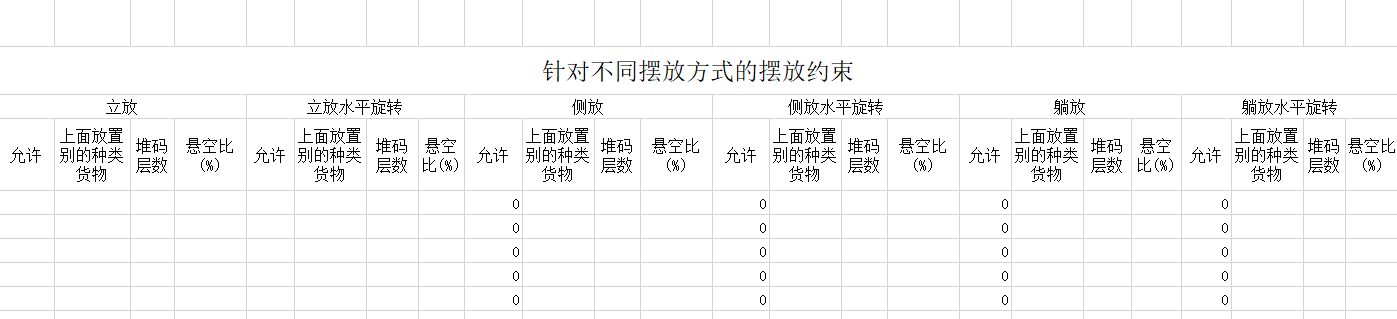
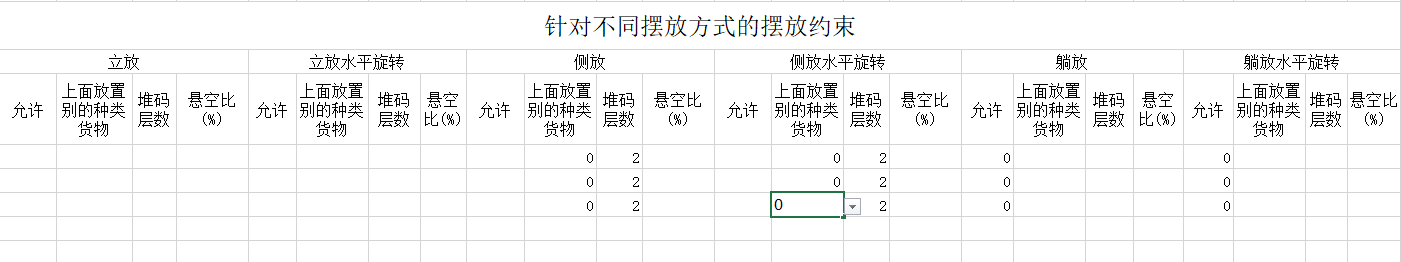
GitBook: [master] 104 pages and 34 assets modified

diff --git a/work/1-ji-zhuang-xiang-you-hua-pei-zai/o-ru-he-shi-xian-huo-wu-you-xian-sheng-cheng-dan-pin-gui-de-zhuang-zai-yao-qiu.md b/work/1-ji-zhuang-xiang-you-hua-pei-zai/o-ru-he-shi-xian-huo-wu-you-xian-sheng-cheng-dan-pin-gui-de-zhuang-zai-yao-qiu.md
@@ -1,0 +1,81 @@
+# o、如何实现货物优先生成单品柜的装载要求
+
+多种规格的货物装集装箱（或车辆或包装箱）时，只要能达到既定的装载率，希望尽量让同一货物装在一个容器中，那么如何在软件中定义？
+
+下面通过一个示例来讲解：
+
+**装箱数据：**
+
+| 名称 | 数量 | 长（cm） | 宽（cm） | 高（cm） |
+| :--- | :--- | :--- | :--- | :--- |
+| A | 110 | 90 | 110 | 70 |
+| B | 120 | 110 | 70 | 75 |
+| C | 52 | 100 | 100 | 100 |
+| D | 270 | 70 | 80 | 40 |
+
+**装载要求：**
+
+1）货物A可以随意摆放，货物BCD只能高垂直于地。
+
+2）货物装集装箱时，优先生成单品柜，剩余的货物再混合装载
+
+3）计算这批货物用几个40普柜装完。
+
+根据当前装载要求，应选择“集装箱装载/多品”任务类型，点击进入。
+
+![&#x56FE;&#x7247;&#x5305;&#x542B; &#x622A;&#x56FE;, &#x6E38;&#x620F;&#x673A;, &#x623F;&#x95F4;
+
+&#x63CF;&#x8FF0;&#x5DF2;&#x81EA;&#x52A8;&#x751F;&#x6210;](../../.gitbook/assets/0%20%2814%29.png)
+
+进入基础信息填写界面，基础信息是选填项，用户可根据实际工作要求，填写PO单号、运单号或目的港等信息，方便以后查阅。接下来，开始方案的设计：
+
+**第一步：**点击左侧的【货物】，进入货物界面，因货物种类较多，所以使用excel批量导入。
+
+1）首先要获取导入模板，点击【添加货物】下的“获取excel导入模板”，另存到桌面。
+
+![&#x56FE;&#x7247;&#x5305;&#x542B; &#x622A;&#x56FE;, &#x6E38;&#x620F;&#x673A;
+
+&#x63CF;&#x8FF0;&#x5DF2;&#x81EA;&#x52A8;&#x751F;&#x6210;](../../.gitbook/assets/1%20%2815%29.png)
+
+2）填写导入模板（下载好的模板会自动打开）：
+
+①将货物的名称、数量、长宽高复制进来，这是必填项。重量是单件货物的毛重，若货物重量较轻可以忽略，重量可以不填写，若货物较重，为了不超重安全运输，重量必须填写，注意单位的匹配。
+
+②定义货物的摆放方式，因本案例要求BCD只能高垂直于地面摆放，即只能立放、立放水平旋转，所以要将BCD其他摆放方式下的“允许”一栏填写为“0”，0表示不允许，1或者不填表示允许。
+
+![&#x56FE;&#x7247;&#x5305;&#x542B; &#x5C4F;&#x5E55;&#x622A;&#x56FE;
+
+&#x63CF;&#x8FF0;&#x5DF2;&#x81EA;&#x52A8;&#x751F;&#x6210;](../../.gitbook/assets/2%20%2816%29.png)
+
+本案例中其他装载要求不涉及，因此模板中其他参数不用设置，按默认值即可。实际工作中若有其他要求，涉及到相关参数的设置，可参考上文中的相关介绍。模板填写完成，保存后关闭。
+
+3）回到软件的货物界面，点击【添加货物】下的“从excel表格中导入”，在弹框中找到填写好的模板，点击打开，货物数据就全部导入到软件中了。
+
+![&#x56FE;&#x7247;&#x5305;&#x542B; &#x622A;&#x56FE;, &#x6E38;&#x620F;&#x673A;
+
+&#x63CF;&#x8FF0;&#x5DF2;&#x81EA;&#x52A8;&#x751F;&#x6210;](../../.gitbook/assets/3%20%2814%29.png)
+
+**第二步:** 点击左侧的【容器】，进入容器界面，因要计算这批货物用几个40GP，所以只需将40GP添加进来即可（若不知道用什么柜型，可以将常用的柜型都添加进来，让软件自动选择）。点击“从数据库中添加”，在弹框中勾选40GP，点击“添加”，关闭弹框，然后设置集装箱的角件和保留尺寸，角件的尺寸为10\*10\*10cm。关于定义保留尺寸的注意事项，请参考[《如何模拟纸箱胀箱和人工摆放间隙》。]()
+
+![&#x56FE;&#x7247;&#x5305;&#x542B; &#x622A;&#x56FE;, &#x7535;&#x8111;, &#x7B14;&#x8BB0;&#x672C;, &#x684C;&#x5B50;
+
+&#x63CF;&#x8FF0;&#x5DF2;&#x81EA;&#x52A8;&#x751F;&#x6210;](../../.gitbook/assets/4%20%2814%29.png)
+
+**第三步：**点击左侧的【装载规则】，进入装载规则界面。
+
+因要求优先生成单品柜，所以将“优先生成单品装载”勾选上，并注意设置“单品装载可以接受的最低装载率”，此案例我们先按照系统默认的85%计算看看方案效果。
+
+![&#x56FE;&#x7247;&#x5305;&#x542B; &#x622A;&#x56FE;, &#x6E38;&#x620F;&#x673A;
+
+&#x63CF;&#x8FF0;&#x5DF2;&#x81EA;&#x52A8;&#x751F;&#x6210;](../../.gitbook/assets/5%20%2811%29.png)
+
+点击自动计算，得出装载方案。在左侧容器列表可以看出这批货物使用5个40GP装完。分别点击容器名称，可以看到每个容器的3D装载效果图，根据立体图可以看到货柜1、2都是单品装载，但是后面三个货柜却是混合装载。这是因为后面的货柜单品装载装载率达不到85%，所有没有生成单品装载。
+
+![](../../.gitbook/assets/6%20%2813%29.png)![](../../.gitbook/assets/7%20%288%29.png) ![](../../.gitbook/assets/8%20%288%29.png)![](../../.gitbook/assets/9%20%287%29.png)![](../../.gitbook/assets/10%20%283%29.png)
+
+接下来将“单品装载可以接受的最低装载率”设置为60%，看看方案有什么变化，点击自动计算，重新生成方案。分别点击容器名称，可以看到前四个货柜都是单品装载，剩余的货物在最后一个货柜混合装载，完全满足了用户的要求。所以在勾选了“优先生成单品装载”，要注意“单品装载可以接受的最低装载率”的设置。
+
+![](../../.gitbook/assets/11%20%282%29.png) ![](../../.gitbook/assets/12%20%283%29.png) ![](../../.gitbook/assets/13%20%282%29.png) ![](../../.gitbook/assets/14%20%282%29.png) ![](../../.gitbook/assets/15%20%281%29.png)
+
+方案审核完成后，可以分享装载方案手机指导现场装载和下载装箱报表用来制作装箱单和报关单，具体方法步骤可以查看文档中的相关介绍。
+

diff --git a/work/1-ji-zhuang-xiang-you-hua-pei-zai/n-ru-he-shi-xian-huo-wu-li-fang-you-xian-de-zhuang-zai-yao-qiu.md b/work/1-ji-zhuang-xiang-you-hua-pei-zai/n-ru-he-shi-xian-huo-wu-li-fang-you-xian-de-zhuang-zai-yao-qiu.md
@@ -1,0 +1,78 @@
+# n、如何实现货物立放优先的装载要求
+
+装柜时，有时会要求货物尽量立放，若货柜顶部有剩余空间可平放摆一两层，那么如何在软件中定义？
+
+下面通过一个示例来讲解：
+
+**装箱数据：**
+
+| 名称 | 数量 | 长度cm | 宽度cm | 高度cm |
+| :--- | :--- | :--- | :--- | :--- |
+| A | 280 | 65 | 14 | 76 |
+| B | 224 | 65 | 12.5 | 76 |
+| C | 170 | 65 | 16 | 76 |
+| D | 64 | 52.8 | 45 | 66 |
+| E | 62 | 66.8 | 41 | 72 |
+
+**装载要求：**
+
+1） ABC尽量立放装载，如果立放装载后集装箱顶部还有空间，可以平放一两层。
+
+2） 计算这批货物用几个40HC能装完。
+
+根据当前装载要求，应选择“集装箱装载/多品”任务类型，点击进入。
+
+![&#x56FE;&#x7247;&#x5305;&#x542B; &#x622A;&#x56FE;, &#x6E38;&#x620F;&#x673A;, &#x623F;&#x95F4;
+
+&#x63CF;&#x8FF0;&#x5DF2;&#x81EA;&#x52A8;&#x751F;&#x6210;](../../.gitbook/assets/0%20%2816%29.png)
+
+进入基础信息填写界面，基础信息是选填项，用户可根据实际工作要求，填写PO单号、运单号或目的港等信息，方便以后查阅。接下来，开始方案的设计：
+
+**第一步：**点击左侧的【货物】，进入货物界面，因货物种类较多，所以使用excel批量导入。
+
+1）首先要获取导入模板，点击【添加货物】下的“获取excel导入模板”，另存到桌面。
+
+![&#x56FE;&#x7247;&#x5305;&#x542B; &#x622A;&#x56FE;, &#x6E38;&#x620F;&#x673A;
+
+&#x63CF;&#x8FF0;&#x5DF2;&#x81EA;&#x52A8;&#x751F;&#x6210;](../../.gitbook/assets/1%20%2813%29.png)
+
+2）填写导入模板（下载好的模板会自动打开）：
+
+①将货物的名称、数量、长宽高复制进来，这是必填项。重量是单件货物的毛重，若货物重量较轻可以忽略，重量可以不填写，若货物较重，为了不超重安全运输，重量必须填写，注意单位的匹配。
+
+②因要求ABC尽量立放装载，如果立放装载后集装箱顶部还有空间，可以平放一两层，本案例的平放是宽垂直于地面，即货物是不能高垂直于地面摆放。所以要设置货物的摆放约束。
+
+将【躺放、躺放水平旋转】的“允许”一栏填写为“0”，0表示不允许，1或者不填表示允许。
+
+将ABC的【侧放、侧放水平旋转】的“最大堆码层数”填写较小数值2，此数值不是固定值，设计方案时，可进行微调，然后选择满意的方案。
+
+将ABC的【侧放、侧放水平旋转】的“上面允许放其它货物”设置为“0”，0表示不允许，1或者不填表示允许。
+
+![&#x56FE;&#x7247;&#x5305;&#x542B; &#x5C4F;&#x5E55;&#x622A;&#x56FE;
+
+&#x63CF;&#x8FF0;&#x5DF2;&#x81EA;&#x52A8;&#x751F;&#x6210;](../../.gitbook/assets/2%20%2813%29.png)
+
+本案例中其他装载要求不涉及，因此模板中其他参数不用设置，按默认值即可。实际工作中若有其他要求，涉及到相关参数的设置，可参考上文中的相关介绍。模板填写完成，保存后关闭。
+
+3）回到软件的货物界面，点击【添加货物】下的“从excel表格中导入”，在弹框中找到填写好的模板，点击打开，货物数据就全部导入到软件中了。
+
+![&#x56FE;&#x7247;&#x5305;&#x542B; &#x622A;&#x56FE;, &#x6E38;&#x620F;&#x673A;
+
+&#x63CF;&#x8FF0;&#x5DF2;&#x81EA;&#x52A8;&#x751F;&#x6210;](../../.gitbook/assets/3%20%2812%29.png)
+
+**第二步:** 点击左侧的【容器】，进入容器界面，因要计算这批货物用几个40HC能装完，所以只需将40HC添加进来即可。点击“从数据库中添加”，在弹框中勾选40HC，点击“添加”，关闭弹框，然后设置集装箱的角件和保留尺寸，角件的尺寸为10\*10\*10cm。关于定义保留尺寸的注意事项，请参考[《如何模拟纸箱胀箱和人工摆放间隙》。]()
+
+![&#x56FE;&#x7247;&#x5305;&#x542B; &#x622A;&#x56FE;, &#x7535;&#x8111;, &#x7537;&#x4EBA;, &#x684C;&#x5B50;
+
+&#x63CF;&#x8FF0;&#x5DF2;&#x81EA;&#x52A8;&#x751F;&#x6210;](../../.gitbook/assets/4%20%2811%29.png)
+
+**第三步：**点击左侧的【装载规则】，进入装载规则界面，因此案例不涉及其他的配载要求，所以装载规则按默认设置即可，不需要改动。
+
+点击自动优化，得出装载方案。左侧列表可以看到这批货物货物使用了1个40HC装完。点击容器名称，可以看到3D装载效果图，通过立体图可以看出，ABC是立放装载，只有上面有空间时会平放两层，完全满足装载要求。
+
+![&#x56FE;&#x7247;&#x5305;&#x542B; &#x6E38;&#x620F;&#x673A;, &#x622A;&#x56FE;
+
+&#x63CF;&#x8FF0;&#x5DF2;&#x81EA;&#x52A8;&#x751F;&#x6210;](../../.gitbook/assets/5%20%2812%29.png)
+
+方案审核完成后，可以分享装载方案手机指导现场装载和下载装箱报表用来制作装箱单和报关单，具体方法步骤可以查看文档中的相关介绍。
+

diff --git a/work/1-ji-zhuang-xiang-you-hua-pei-zai/j-ru-he-zai-sheng-yu-kong-jian-tian-sai-huo-wu.md b/work/1-ji-zhuang-xiang-you-hua-pei-zai/j-ru-he-zai-sheng-yu-kong-jian-tian-sai-huo-wu.md
@@ -36,23 +36,23 @@
 
 ![&#x56FE;&#x7247;&#x5305;&#x542B; &#x622A;&#x56FE;, &#x6E38;&#x620F;&#x673A;
 
-&#x63CF;&#x8FF0;&#x5DF2;&#x81EA;&#x52A8;&#x751F;&#x6210;](../../.gitbook/assets/1%20%2814%29.png)
+&#x63CF;&#x8FF0;&#x5DF2;&#x81EA;&#x52A8;&#x751F;&#x6210;](../../.gitbook/assets/1%20%2816%29.png)
 
 2）填写导入模板（下载好的模板会自动打开）：
 
 ①首先将货物的名称、数量、长宽高复制进来，这是必填项。重量是单件货物的毛重，若货物重量较轻可以忽略，重量可以不填写，若货物较重，为了不超重安全运输，重量必须填写，注意单位的匹配。因D、E是填塞货物，没有具体数量，所以D、E数量一栏填写较大数值即可。
 
-![](../../.gitbook/assets/2%20%2814%29.png)
+![](../../.gitbook/assets/2%20%2815%29.png)
 
 ②然后定义货物的摆放方式，因本案例要求ABC不能长垂直于地面摆放，即不能躺放、躺放水平旋转，所以要将躺放、躺放水平旋转下的“允许”一栏填写为“0”，0表示不允许，1或者不填表示允许。
 
 ![&#x56FE;&#x7247;&#x5305;&#x542B; &#x5C4F;&#x5E55;&#x622A;&#x56FE;
 
-&#x63CF;&#x8FF0;&#x5DF2;&#x81EA;&#x52A8;&#x751F;&#x6210;](../../.gitbook/assets/3%20%2812%29.png)
+&#x63CF;&#x8FF0;&#x5DF2;&#x81EA;&#x52A8;&#x751F;&#x6210;](../../.gitbook/assets/3%20%2813%29.png)
 
 ③最后定义货物装载属性，因D、E是填塞货物，所以需要将D、E的“紧急程度”设置为“1”，1表示是填充货物，0或者不填表示不是填充货物。
 
-![](../../.gitbook/assets/4%20%2812%29.png)
+![](../../.gitbook/assets/4%20%2813%29.png)
 
 本案例中其他装载要求不涉及，因此模板中其他参数不用设置，按默认值即可。实际工作中若有其他要求，涉及到相关参数的设置，可参考上文中的相关介绍。模板填写完成，保存后关闭。
 
@@ -60,7 +60,7 @@
 
 ![&#x56FE;&#x7247;&#x5305;&#x542B; &#x622A;&#x56FE;, &#x6E38;&#x620F;&#x673A;
 
-&#x63CF;&#x8FF0;&#x5DF2;&#x81EA;&#x52A8;&#x751F;&#x6210;](../../.gitbook/assets/5%20%2811%29.png)
+&#x63CF;&#x8FF0;&#x5DF2;&#x81EA;&#x52A8;&#x751F;&#x6210;](../../.gitbook/assets/5%20%2813%29.png)
 
 **第二步：**点击左侧的【容器】，进入容器界面。因用户不知道用什么货柜装载，用几个装完，因此需要将常用的柜型都添加进来，以便软件从中选择合适的柜型装载。点击“从数据库添加”，在弹框中勾选20GP、40GP，和40HC，点击“添加”。关闭弹框，然后分别定义集装箱的角件和保留尺寸，角件的尺寸为10\*10\*10cm。关于定义保留尺寸的注意事项，请参考[《如何模拟纸箱胀箱和人工摆放间隙》。]()
 
@@ -72,7 +72,7 @@
 
 ![&#x56FE;&#x7247;&#x5305;&#x542B; &#x6E38;&#x620F;&#x673A;, &#x622A;&#x56FE;
 
-&#x63CF;&#x8FF0;&#x5DF2;&#x81EA;&#x52A8;&#x751F;&#x6210;](../../.gitbook/assets/7%20%288%29.png)
+&#x63CF;&#x8FF0;&#x5DF2;&#x81EA;&#x52A8;&#x751F;&#x6210;](../../.gitbook/assets/7%20%289%29.png)
 
 方案审核完成后，可以分享装载方案手机指导现场装载和下载装箱报表用来制作装箱单和报关单，具体方法步骤可以查看文档中的相关介绍。
 

diff --git a/work/1-ji-zhuang-xiang-you-hua-pei-zai/l-ru-he-shi-xian-huo-wu-an-rong-qi-zhi-ding-de-shun-xu-ji-shu-liang-zhuang-zai.md b/work/1-ji-zhuang-xiang-you-hua-pei-zai/l-ru-he-shi-xian-huo-wu-an-rong-qi-zhi-ding-de-shun-xu-ji-shu-liang-zhuang-zai.md
@@ -4,6 +4,8 @@
 
 下面通过一个示例来讲解：
 
+**装箱数据：**
+
 | 名称 | 箱数 | 长（cm） | 宽（cm） | 高（cm） |
 | :--- | :--- | :--- | :--- | :--- |
 | A | 39 | 110 | 110 | 120 |
@@ -11,8 +13,6 @@
 | C | 100 | 90 | 110 | 40 |
 | D | 85 | 100 | 80 | 70 |
 | E | 22 | 120 | 110 | 90 |
-
-**装箱数据：**
 
 **装载要求：**
 
@@ -34,7 +34,7 @@
 
 ![&#x56FE;&#x7247;&#x5305;&#x542B; &#x622A;&#x56FE;, &#x6E38;&#x620F;&#x673A;
 
-&#x63CF;&#x8FF0;&#x5DF2;&#x81EA;&#x52A8;&#x751F;&#x6210;](../../.gitbook/assets/1%20%2813%29.png)
+&#x63CF;&#x8FF0;&#x5DF2;&#x81EA;&#x52A8;&#x751F;&#x6210;](../../.gitbook/assets/1%20%2814%29.png)
 
 2）填写导入模板（下载好的模板会自动打开）：
 
@@ -44,7 +44,7 @@
 
 ![&#x56FE;&#x7247;&#x5305;&#x542B; &#x5C4F;&#x5E55;&#x622A;&#x56FE;
 
-&#x63CF;&#x8FF0;&#x5DF2;&#x81EA;&#x52A8;&#x751F;&#x6210;](../../.gitbook/assets/2%20%2815%29.png)
+&#x63CF;&#x8FF0;&#x5DF2;&#x81EA;&#x52A8;&#x751F;&#x6210;](../../.gitbook/assets/2%20%2817%29.png)
 
 本案例中其他装载要求不涉及，因此模板中其他参数不用设置，按默认值即可。实际工作中若有其他要求，涉及到相关参数的设置，可参考上文中的相关介绍。模板填写完成，保存后关闭。
 
@@ -52,19 +52,19 @@
 
 ![&#x56FE;&#x7247;&#x5305;&#x542B; &#x622A;&#x56FE;, &#x6E38;&#x620F;&#x673A;
 
-&#x63CF;&#x8FF0;&#x5DF2;&#x81EA;&#x52A8;&#x751F;&#x6210;](../../.gitbook/assets/3%20%2814%29.png)
+&#x63CF;&#x8FF0;&#x5DF2;&#x81EA;&#x52A8;&#x751F;&#x6210;](../../.gitbook/assets/3%20%2816%29.png)
 
 **第二步：**点击左侧的【容器】，进入容器界面。因要求先装满2个40GP，再装20GP，所以需要先添加2个40GP，在添加20GP。点击“从数据库添加”，在弹框中先勾选40GP，再勾选20GP，点击“添加”，关闭弹框；然后将40GP的数量修改为2，最后分别定义集装箱的角件和保留尺寸，角件的尺寸为10\*10\*10cm。关于定义保留尺寸的注意事项，请参考[《如何模拟纸箱胀箱和人工摆放间隙》。]()
 
 ![&#x56FE;&#x7247;&#x5305;&#x542B; &#x622A;&#x56FE;, &#x6E38;&#x620F;&#x673A;, &#x7535;&#x8111;
 
-&#x63CF;&#x8FF0;&#x5DF2;&#x81EA;&#x52A8;&#x751F;&#x6210;](../../.gitbook/assets/4%20%2811%29.png)
+&#x63CF;&#x8FF0;&#x5DF2;&#x81EA;&#x52A8;&#x751F;&#x6210;](../../.gitbook/assets/4%20%2812%29.png)
 
 **第三步：**点击左侧的【装载规则】，进入装载规则界面。将【容器选择方式】选择为“依照容器列表输入顺序依次装载”。
 
 ![&#x56FE;&#x7247;&#x5305;&#x542B; &#x5C4F;&#x5E55;&#x622A;&#x56FE;
 
-&#x63CF;&#x8FF0;&#x5DF2;&#x81EA;&#x52A8;&#x751F;&#x6210;](../../.gitbook/assets/5%20%2812%29.png)
+&#x63CF;&#x8FF0;&#x5DF2;&#x81EA;&#x52A8;&#x751F;&#x6210;](../../.gitbook/assets/5%20%2814%29.png)
 
 点击自动优化，得出装载方案。左侧列表可以看到货物先使用2个40GP，然后使用3个20GP装完，完全满足用户的要求。分别点击容器名称，可以看到3D装载效果图，图的右侧有当前货柜的货物统计、装载步骤和平衡分析。
 

diff --git a/work/1-ji-zhuang-xiang-you-hua-pei-zai/k-ru-he-xian-zhi-bu-tong-gui-ge-huo-wu-xiang-hu-dui-die-shi-de-zong-ceng-shu.md b/work/1-ji-zhuang-xiang-you-hua-pei-zai/k-ru-he-xian-zhi-bu-tong-gui-ge-huo-wu-xiang-hu-dui-die-shi-de-zong-ceng-shu.md
@@ -28,7 +28,7 @@
 
 ![&#x56FE;&#x7247;&#x5305;&#x542B; &#x622A;&#x56FE;, &#x6E38;&#x620F;&#x673A;, &#x623F;&#x95F4;
 
-&#x63CF;&#x8FF0;&#x5DF2;&#x81EA;&#x52A8;&#x751F;&#x6210;](../../.gitbook/assets/0%20%2814%29.png)
+&#x63CF;&#x8FF0;&#x5DF2;&#x81EA;&#x52A8;&#x751F;&#x6210;](../../.gitbook/assets/0%20%2815%29.png)
 
 进入基础信息填写界面，基础信息是选填项，用户可根据实际工作要求，填写PO单号、运单号或目的港等信息，方便以后查阅。接下来，开始方案的设计：
 
@@ -48,7 +48,7 @@
 
 ![&#x56FE;&#x7247;&#x5305;&#x542B; &#x5C4F;&#x5E55;&#x622A;&#x56FE;
 
-&#x63CF;&#x8FF0;&#x5DF2;&#x81EA;&#x52A8;&#x751F;&#x6210;](../../.gitbook/assets/2%20%2813%29.png)
+&#x63CF;&#x8FF0;&#x5DF2;&#x81EA;&#x52A8;&#x751F;&#x6210;](../../.gitbook/assets/2%20%2814%29.png)
 
 ③定义货物的装载属性。
 
@@ -56,11 +56,11 @@
 
 ![&#x56FE;&#x7247;&#x5305;&#x542B; &#x5C4F;&#x5E55;&#x622A;&#x56FE;
 
-&#x63CF;&#x8FF0;&#x5DF2;&#x81EA;&#x52A8;&#x751F;&#x6210;](../../.gitbook/assets/3%20%2813%29.png)
+&#x63CF;&#x8FF0;&#x5DF2;&#x81EA;&#x52A8;&#x751F;&#x6210;](../../.gitbook/assets/3%20%2815%29.png)
 
 又因要求货物A较重，要放在最下方，货物E较轻放在最上方，所以要设置货物的承重级别，承重级别是一个相对值，数值越大代表承重能力越强，越放在下面，所以将A设置相对较大的数值，例如12，E设置较小数例如9，因模板中所有货物的承重级别默认为10，所以BCD可以不用填写，或者都填写为11。
 
-![](../../.gitbook/assets/4%20%2813%29.png)
+![](../../.gitbook/assets/4%20%2815%29.png)
 
 本案例中其他装载要求不涉及，因此模板中其他参数不用设置，按默认值即可。实际工作中若有其他要求，涉及到相关参数的设置，可参考上文中的相关介绍。模板填写完成，保存后关闭。
 
@@ -80,7 +80,7 @@
 
 ![&#x56FE;&#x7247;&#x5305;&#x542B; &#x5C4F;&#x5E55;&#x622A;&#x56FE;
 
-&#x63CF;&#x8FF0;&#x5DF2;&#x81EA;&#x52A8;&#x751F;&#x6210;](../../.gitbook/assets/7%20%289%29.png)
+&#x63CF;&#x8FF0;&#x5DF2;&#x81EA;&#x52A8;&#x751F;&#x6210;](../../.gitbook/assets/7%20%2810%29.png)
 
 点击自动计算，得出装载方案。通过左侧容器列表可以看到这批货物使用了一个40GP装完，中间是3D装载效果图，根据立体图可以看到货物A放在最下方，货物E放在最上面，货物B、C、D无论是自身叠加还是相互叠加，它们的总层数都没有超过4层，完全满足用户的要求。
 

diff --git a/SUMMARY.md b/SUMMARY.md
@@ -79,6 +79,8 @@
     * [j、如何在剩余空间填塞货物](work/1-ji-zhuang-xiang-you-hua-pei-zai/j-ru-he-zai-sheng-yu-kong-jian-tian-sai-huo-wu.md)
     * [k、如何限制不同规格货物相互堆叠时的总层数](work/1-ji-zhuang-xiang-you-hua-pei-zai/k-ru-he-xian-zhi-bu-tong-gui-ge-huo-wu-xiang-hu-dui-die-shi-de-zong-ceng-shu.md)
     * [l、如何实现货物按容器指定的顺序及数量装载](work/1-ji-zhuang-xiang-you-hua-pei-zai/l-ru-he-shi-xian-huo-wu-an-rong-qi-zhi-ding-de-shun-xu-ji-shu-liang-zhuang-zai.md)
+    * [n、如何实现货物立放优先的装载要求](work/1-ji-zhuang-xiang-you-hua-pei-zai/n-ru-he-shi-xian-huo-wu-li-fang-you-xian-de-zhuang-zai-yao-qiu.md)
+    * [o、如何实现货物优先生成单品柜的装载要求](work/1-ji-zhuang-xiang-you-hua-pei-zai/o-ru-he-shi-xian-huo-wu-you-xian-sheng-cheng-dan-pin-gui-de-zhuang-zai-yao-qiu.md)
   * [9、如何实现货物优先生成单品装载](work/dan-pin-zhuang-zai.md)
   * [10、如何固定一些容器的方案不变，针对个别容器重新计算](work/103001-ru-he-gu-ding-yi-xie-rong-qi-de-pei-zai-fang-an-bu-bian-ff0c-zhen-dui-ge-bie-rong-qi-zhong-xi.md)
 * [六、方案审核](auditing-plan/README.md)
